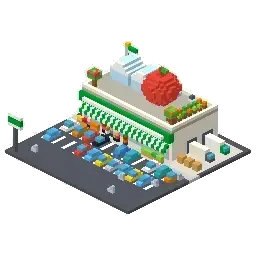
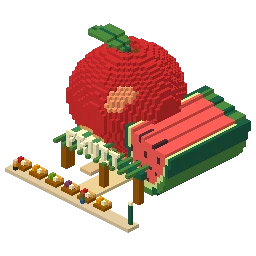
Integrate and illustrate five Original markets and workplaces

diff --git a/src/game/designs/commerceExpansion.ts b/src/game/designs/commerceExpansion.ts
@@ -1,3 +1,5 @@
+import { buildDepartmentStore, buildHardwareStore } from "./commerceSupply";
+import { buildCoworkingLoft, buildTechStartupHub } from "./commerceWorkplaces";
 import { buildFurnitureShowroom } from "./furnitureShowrooms";
 import { buildAutoDealership } from "./motorShowrooms";
 import { buildCornerPharmacy } from "./cornerPharmacy";
@@ -127,19 +129,7 @@ defineDesigns({
     shopper(c, 1, hz - 2);
   }),
 
-  hardware_store: entry("hardware_store", (c) => {
-    const { v, lv, hx, hz } = c;
-    const s = c.variant % 4;
-    lot(c, "concrete2");
-    const walls = ["brick", "wood", "concrete", "orange"];
-    const { x0, x1, z0, top } = storefrontBox(c, walls[s], "steelDark", "orange", "orange", "white", Math.min(2, lv), "gable");
-    // Stacked lumber yard
-    if (lv >= 2) {
-      for (let y = 1; y <= 3; y++) v.box(x0, y, hz - 3, x0 + 6, y + 1, hz - 1, y % 2 ? "woodLight" : "wood");
-    }
-    v.box(x0 + 2, top + 1, z0 + 2, x1 - 2, top + 3, z0 + 4, "orange", 0.7);
-    shopper(c, 3, hz - 2);
-  }),
+  hardware_store: entry("hardware_store", buildHardwareStore),
 
   indie_bookstore: entry("indie_bookstore", buildIndieBookstore),
 
@@ -279,64 +269,11 @@ defineDesigns({
     shopper(c, 0, hz - 2);
   }),
 
-  coworking_loft: entry("coworking_loft", (c) => {
-    const { v, lv, hx, hz } = c;
-    const s = c.variant % 4;
-    lot(c, "path");
-    const x0 = -hx + 2, x1 = hx - 2, z0 = -hz + 2, z1 = hz - 4;
-    const floors = 2 + lv;
-    const top = 1 + floors * 4;
-    if (s === 1 || s === 2) {
-      curtainWall(c, x0, 1, z0, x1, top, z1, "#99f6e4", s === 1 ? "wood" : "white", 3, 4);
-    } else {
-      v.box(x0, 1, z0, x1, top, z1, "brick");
-      windows(c, x0, 1, z0, x1, top, z1, { stepH: 3, stepV: 4, h: 3, emit: 0.55 });
-    }
-    flatRoof(c, x0, top, z0, x1, z1, "grass2", "woodDark", false);
-    // Rooftop pergola + greenery
-    for (let x = x0 + 2; x < x1 - 2; x += 4) v.box(x, top + 1, z0 + 2, x + 1, top + 4, z0 + 3, "woodDark");
-    v.box(x0 + 2, top + 4, z0 + 2, x1 - 2, top + 5, z0 + 6, "woodLight");
-    shopper(c, -2, hz - 2);
-  }),
+  coworking_loft: entry("coworking_loft", buildCoworkingLoft),
 
-  tech_startup_hub: entry("tech_startup_hub", (c) => {
-    const { v, lv, hx, hz } = c;
-    const s = c.variant % 4;
-    lot(c, "grass2");
-    const x0 = -hx + 2, x1 = hx - 2, z0 = -hz + 2, z1 = hz - 5;
-    const top = 5 + lv * 4;
-    const glassCol = ["#67e8f9", "#a7f3d0", "#94a3b8", "#bae6fd"][s];
-    const frameCol = ["white", "wood", "charcoal", "silver"][s];
-    curtainWall(c, x0, 1, z0, x1, top, z1, glassCol, frameCol, 4, 4);
-    // Cantilevered upper glass ring
-    if (lv >= 3) {
-      curtainWall(c, x0 - 1, top - 4, z0 - 1, x1 + 1, top, z1 + 1, glassCol, "cyan", 4, 4);
-    }
-    flatRoof(c, x0, top, z0, x1, z1, "concreteDark", "cyan", false);
-    solarRow(v, x0 + 2, x1 - 2, top + 1, z0 + 2);
-    tree(v, -hx + 2, 1, hz - 3, "round", 1.2);
-    tree(v, hx - 3, 1, hz - 3, "round", 1.2);
-    shopper(c, 0, hz - 2);
-  }),
+  tech_startup_hub: entry("tech_startup_hub", buildTechStartupHub),
 
-  department_store: entry("department_store", (c) => {
-    const { v, lv, hx, hz } = c;
-    const s = c.variant % 4;
-    lot(c, "path");
-    const wall = ["limestone", "cream", "terracotta", "white"][s];
-    const floors = 2 + lv;
-    const x0 = -hx + 2, x1 = hx - 2, z0 = -hz + 2, z1 = hz - 4;
-    const top = 1 + floors * 4;
-    v.box(x0, 1, z0, x1, top, z1, wall);
-    v.clear(x0 + 1, 1, z0 + 1, x1 - 1, top - 1, z1 - 1);
-    v.box(x0 + 2, 2, z1 - 1, x1 - 2, 4, z1, "warmGlow", 0.7);
-    windows(c, x0, 5, z0, x1, top, z1, { stepH: 3, stepV: 4, h: 2, sill: "gold", emit: 0.55 });
-    awning(v, x0 + 1, x1 - 1, 5, z1, "crimson", "gold");
-    mansard(v, x0, top, z0, x1, z1, "slate", "gold", "warmGlow");
-    if (lv >= 4) v.dome(0, top + 4, 0, Math.min(5, Math.floor((x1 - x0) / 4)), "copper");
-    shopper(c, -3, hz - 2);
-    shopper(c, 3, hz - 2);
-  }),
+  department_store: entry("department_store", buildDepartmentStore),
 
   night_market: entry("night_market", (c) => {
     const { v, lv, hx, hz } = c;

diff --git a/src/game/designs/commerceSupply.ts b/src/game/designs/commerceSupply.ts
@@ -1,7 +1,6 @@
 /** Original department stores and builders' merchants. Each shop has a street entrance and four separate plans. */
 import { archway, awning, byLv, clockFace, door, lamp, person, truck, windows, type Ctx, type PixelVox } from "./kit";
 import { bulbs, cafeTable, disc, glassFront, spinner } from "./commerceKit";
-import { override } from "./commerceIcons";
 
 function shopWing(c: Ctx, x0: number, z0: number, x1: number, z1: number, top: number, wall: string, cornice: string) {
   const v = c.v;
@@ -238,7 +237,9 @@ function rotunda(c: Ctx) {
   }
 }
 
-override("department_store", (c) => c.vpick([clockEmporium, giftArcade, escalatorArcade, rotunda])(c));
+export function buildDepartmentStore(c: Ctx) {
+  c.vpick([clockEmporium, giftArcade, escalatorArcade, rotunda])(c);
+}
 
 function timber(v: PixelVox, x: number, z: number, w: number, rows: number) {
   for (let y = 0; y < rows; y++)
@@ -414,4 +415,6 @@ function lumberBarn(c: Ctx) {
   }
 }
 
-override("hardware_store", (c) => c.vpick([toolbox, paintDepot, boltWorks, lumberBarn])(c));
+export function buildHardwareStore(c: Ctx) {
+  c.vpick([toolbox, paintDepot, boltWorks, lumberBarn])(c);
+}

diff --git a/src/game/designs/commerceWorkplaces.ts b/src/game/designs/commerceWorkplaces.ts
@@ -1,7 +1,6 @@
 /** Original workspaces built out of an old mill, a computer, terraces, a tree, or the inventions inside them. */
 import { bench, byLv, door, person, PixelVox, tree, windows, type Ctx } from "./kit";
 import { cafeTable, disc, glassFront, sculpt } from "./commerceKit";
-import { override } from "./commerceIcons";
 
 function desk(v: PixelVox, x: number, y: number, z: number) {
   v.box(x, y, z, x + 1, y + 2, z + 2, "woodDark");
@@ -210,7 +209,9 @@ function treeStudios(c: Ctx) {
   }
 }
 
-override("coworking_loft", (c) => c.vpick([millLoft, laptopLoft, studioTerraces, treeStudios])(c));
+export function buildCoworkingLoft(c: Ctx) {
+  c.vpick([millLoft, laptopLoft, studioTerraces, treeStudios])(c);
+}
 
 function rocketStudio(c: Ctx) {
   const { v, lv, hx, hz } = c;
@@ -402,4 +403,6 @@ function orbitStudios(c: Ctx) {
   }
 }
 
-override("tech_startup_hub", (c) => c.vpick([rocketStudio, lightbulbStudio, circuitStudios, orbitStudios])(c));
+export function buildTechStartupHub(c: Ctx) {
+  c.vpick([rocketStudio, lightbulbStudio, circuitStudios, orbitStudios])(c);
+}

diff --git a/src/game/designs/index.ts b/src/game/designs/index.ts
@@ -30,6 +30,3 @@ import "./commerceFood";
 import "./commerceShows";
 import "./commerceHotel";
 import "./commerceMore";
-
-import "./commerceWorkplaces";
-import "./commerceSupply";

diff --git a/docs/redesign/PROGRESS.md b/docs/redesign/PROGRESS.md
@@ -57,3 +57,4 @@
 - 2026-11-27 13:54 MT — [PR #36](https://github.com/FuzzyMediaco/Pixel-Civilization/pull/36) merged at `3357e09`. Original Public Library has four book-built designs at five levels. [Before/after](../review/civic-library/library-before-after.webp), [grayscale](../review/civic-library/library-grayscale.webp), and [silhouettes](../review/civic-library/library-silhouettes.webp). The library-only scan found zero close variants and zero flat upgrades. All 620 tests, type-check, production build and [Game checks](https://github.com/FuzzyMediaco/Pixel-Civilization/actions/runs/46066621867) passed. Next are the four Original civic services.
 - 2026-11-27 14:02 MT — [PR #37](https://github.com/FuzzyMediaco/Pixel-Civilization/pull/37) merged at `804293b`. The four Original civic services now have 80 new models. The [model comparisons](../review/civic-services/) and [phone neighborhood](../review/civic-neighborhood/) cover individual models and the five buildings together. The 100-model civic silhouette scan flagged zero look-alikes or flat upgrades. All 621 tests, lint, build and [Game checks](https://github.com/FuzzyMediaco/Pixel-Civilization/actions/runs/46067458172) passed. The remaining Original commercial buildings are next.
 - 2026-11-27 14:05 MT — [PR #38](https://github.com/FuzzyMediaco/Pixel-Civilization/pull/38) merged at `af7dcf2`. The [model gallery](../review/gallery-coverage/) now captures all supported levels and eras, including eleven road levels. Corrected Egyptian captures expose the library’s four matching legacy variants for the era pass. Lint, 621 tests, production build and [Game checks](https://github.com/FuzzyMediaco/Pixel-Civilization/actions/runs/46067815762) passed.
+- 2026-11-27 14:10 MT — [PR #39](https://github.com/FuzzyMediaco/Pixel-Civilization/pull/39) merged at `2eed648`. Bookstore, pharmacy, seafood pier, motor and furniture showrooms gained 100 Original models. No silhouette flags across the batch and Public Library. [Before/after boards](../review/neighborhood-commerce/). Local lint, tests, build and [Game checks](https://github.com/FuzzyMediaco/Pixel-Civilization/actions/runs/46068409046) passed.
